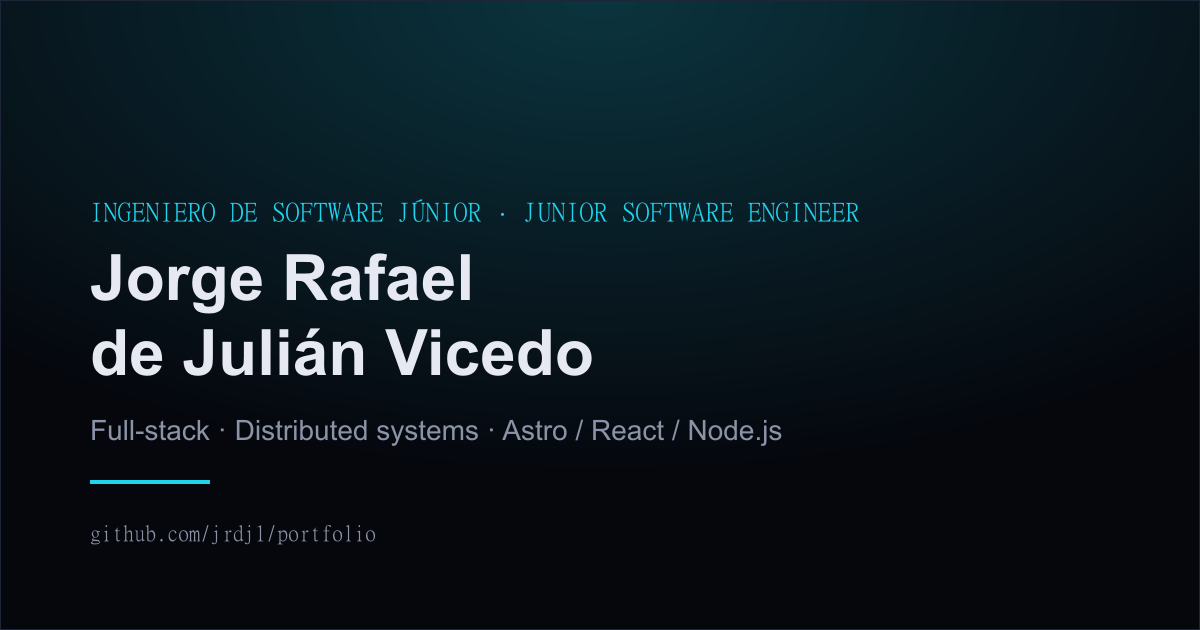
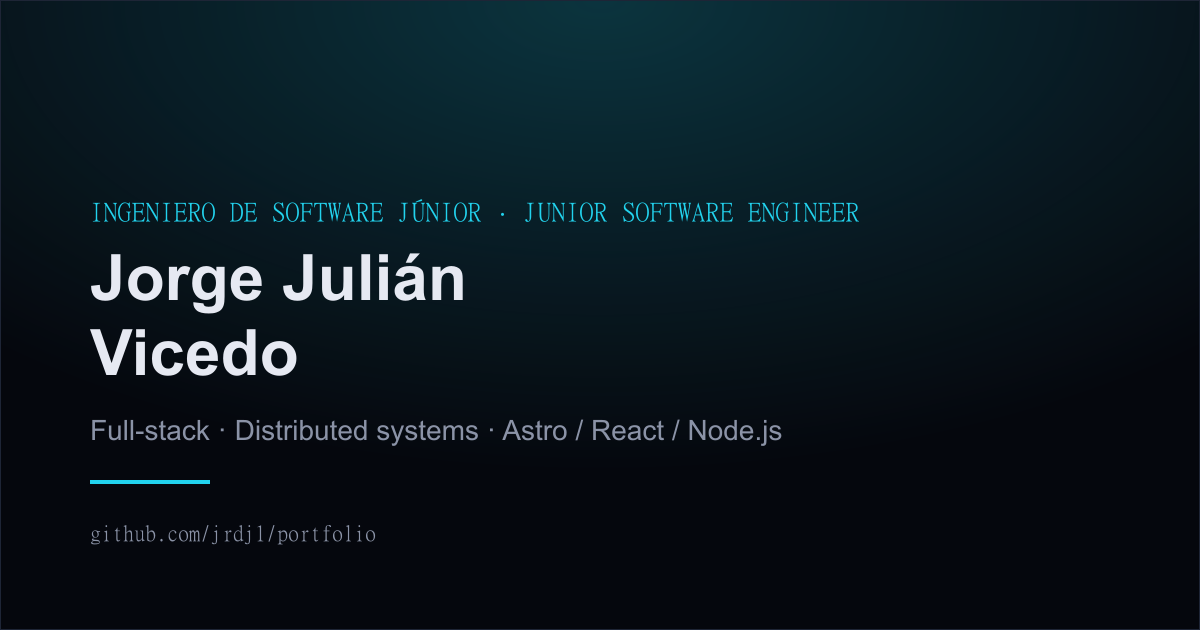
chore: simplify display name to "Jorge Julian Vicedo"
Quita "Rafael" y "de" del nombre publico en hero, footer, titulo,
descripcion, JSON-LD, imagen OG, README y LICENSE. El CV descargable
(PDF) mantiene el nombre legal completo, no se toca.

Changed region(s): [[0.0617, 0.5127, 0.4933, 0.6032], [0.2158, 0.3921, 0.4008, 0.4825]]

diff --git a/src/i18n/ui.ts b/src/i18n/ui.ts
@@ -9,9 +9,9 @@ export const defaultLocale: Locale = 'es';
  */
 export const ui = {
   es: {
-    'site.title': 'Jorge de Julián Vicedo — Portfolio',
+    'site.title': 'Jorge Julián Vicedo — Portfolio',
     'site.description':
-      'Portfolio de Jorge Rafael de Julián Vicedo, Ingeniero de Software Júnior: proyectos full-stack, sistemas distribuidos y habilidades técnicas.',
+      'Portfolio de Jorge Julián Vicedo, Ingeniero de Software Júnior: proyectos full-stack, sistemas distribuidos y habilidades técnicas.',
     'nav.about': 'Sobre mí',
     'nav.skills': 'Habilidades',
     'nav.projects': 'Proyectos',
@@ -21,7 +21,7 @@ export const ui = {
     'nav.langSwitch': 'English',
     'nav.themeToggle': 'Cambiar entre tema claro y oscuro',
     'hero.eyebrow': 'Ingeniero de Software Júnior',
-    'hero.name': 'Jorge Rafael de Julián Vicedo',
+    'hero.name': 'Jorge Julián Vicedo',
     'hero.cta.projects': 'Ver proyectos',
     'hero.cta.contact': 'Contactar',
     'about.heading': 'Sobre mí',
@@ -39,9 +39,9 @@ export const ui = {
     'footer.rights': 'Todos los derechos reservados.',
   },
   en: {
-    'site.title': 'Jorge de Julián Vicedo — Portfolio',
+    'site.title': 'Jorge Julián Vicedo — Portfolio',
     'site.description':
-      'Portfolio of Jorge Rafael de Julián Vicedo, Junior Software Engineer: full-stack projects, distributed systems and technical skills.',
+      'Portfolio of Jorge Julián Vicedo, Junior Software Engineer: full-stack projects, distributed systems and technical skills.',
     'nav.about': 'About',
     'nav.skills': 'Skills',
     'nav.projects': 'Projects',
@@ -51,7 +51,7 @@ export const ui = {
     'nav.langSwitch': 'Español',
     'nav.themeToggle': 'Toggle light and dark theme',
     'hero.eyebrow': 'Junior Software Engineer',
-    'hero.name': 'Jorge Rafael de Julián Vicedo',
+    'hero.name': 'Jorge Julián Vicedo',
     'hero.cta.projects': 'View projects',
     'hero.cta.contact': 'Get in touch',
     'about.heading': 'About',

diff --git a/README.md b/README.md
@@ -1,6 +1,6 @@
-# Portfolio — Jorge Rafael de Julián Vicedo
+# Portfolio — Jorge Julián Vicedo
 
-Portfolio web personal de [Jorge Rafael de Julián Vicedo](https://github.com/jrdj1), estudiante de Ingeniería Informática (Universidad de Alicante) e Ingeniero de Software Júnior. Construido con [Astro](https://astro.build) y [Tailwind CSS](https://tailwindcss.com), en español e inglés.
+Portfolio web personal de [Jorge Julián Vicedo](https://github.com/jrdj1), estudiante de Ingeniería Informática (Universidad de Alicante) e Ingeniero de Software Júnior. Construido con [Astro](https://astro.build) y [Tailwind CSS](https://tailwindcss.com), en español e inglés.
 
 🔗 Demo en vivo: [jorgejulianvicedo.vercel.app](https://jorgejulianvicedo.vercel.app)
 
